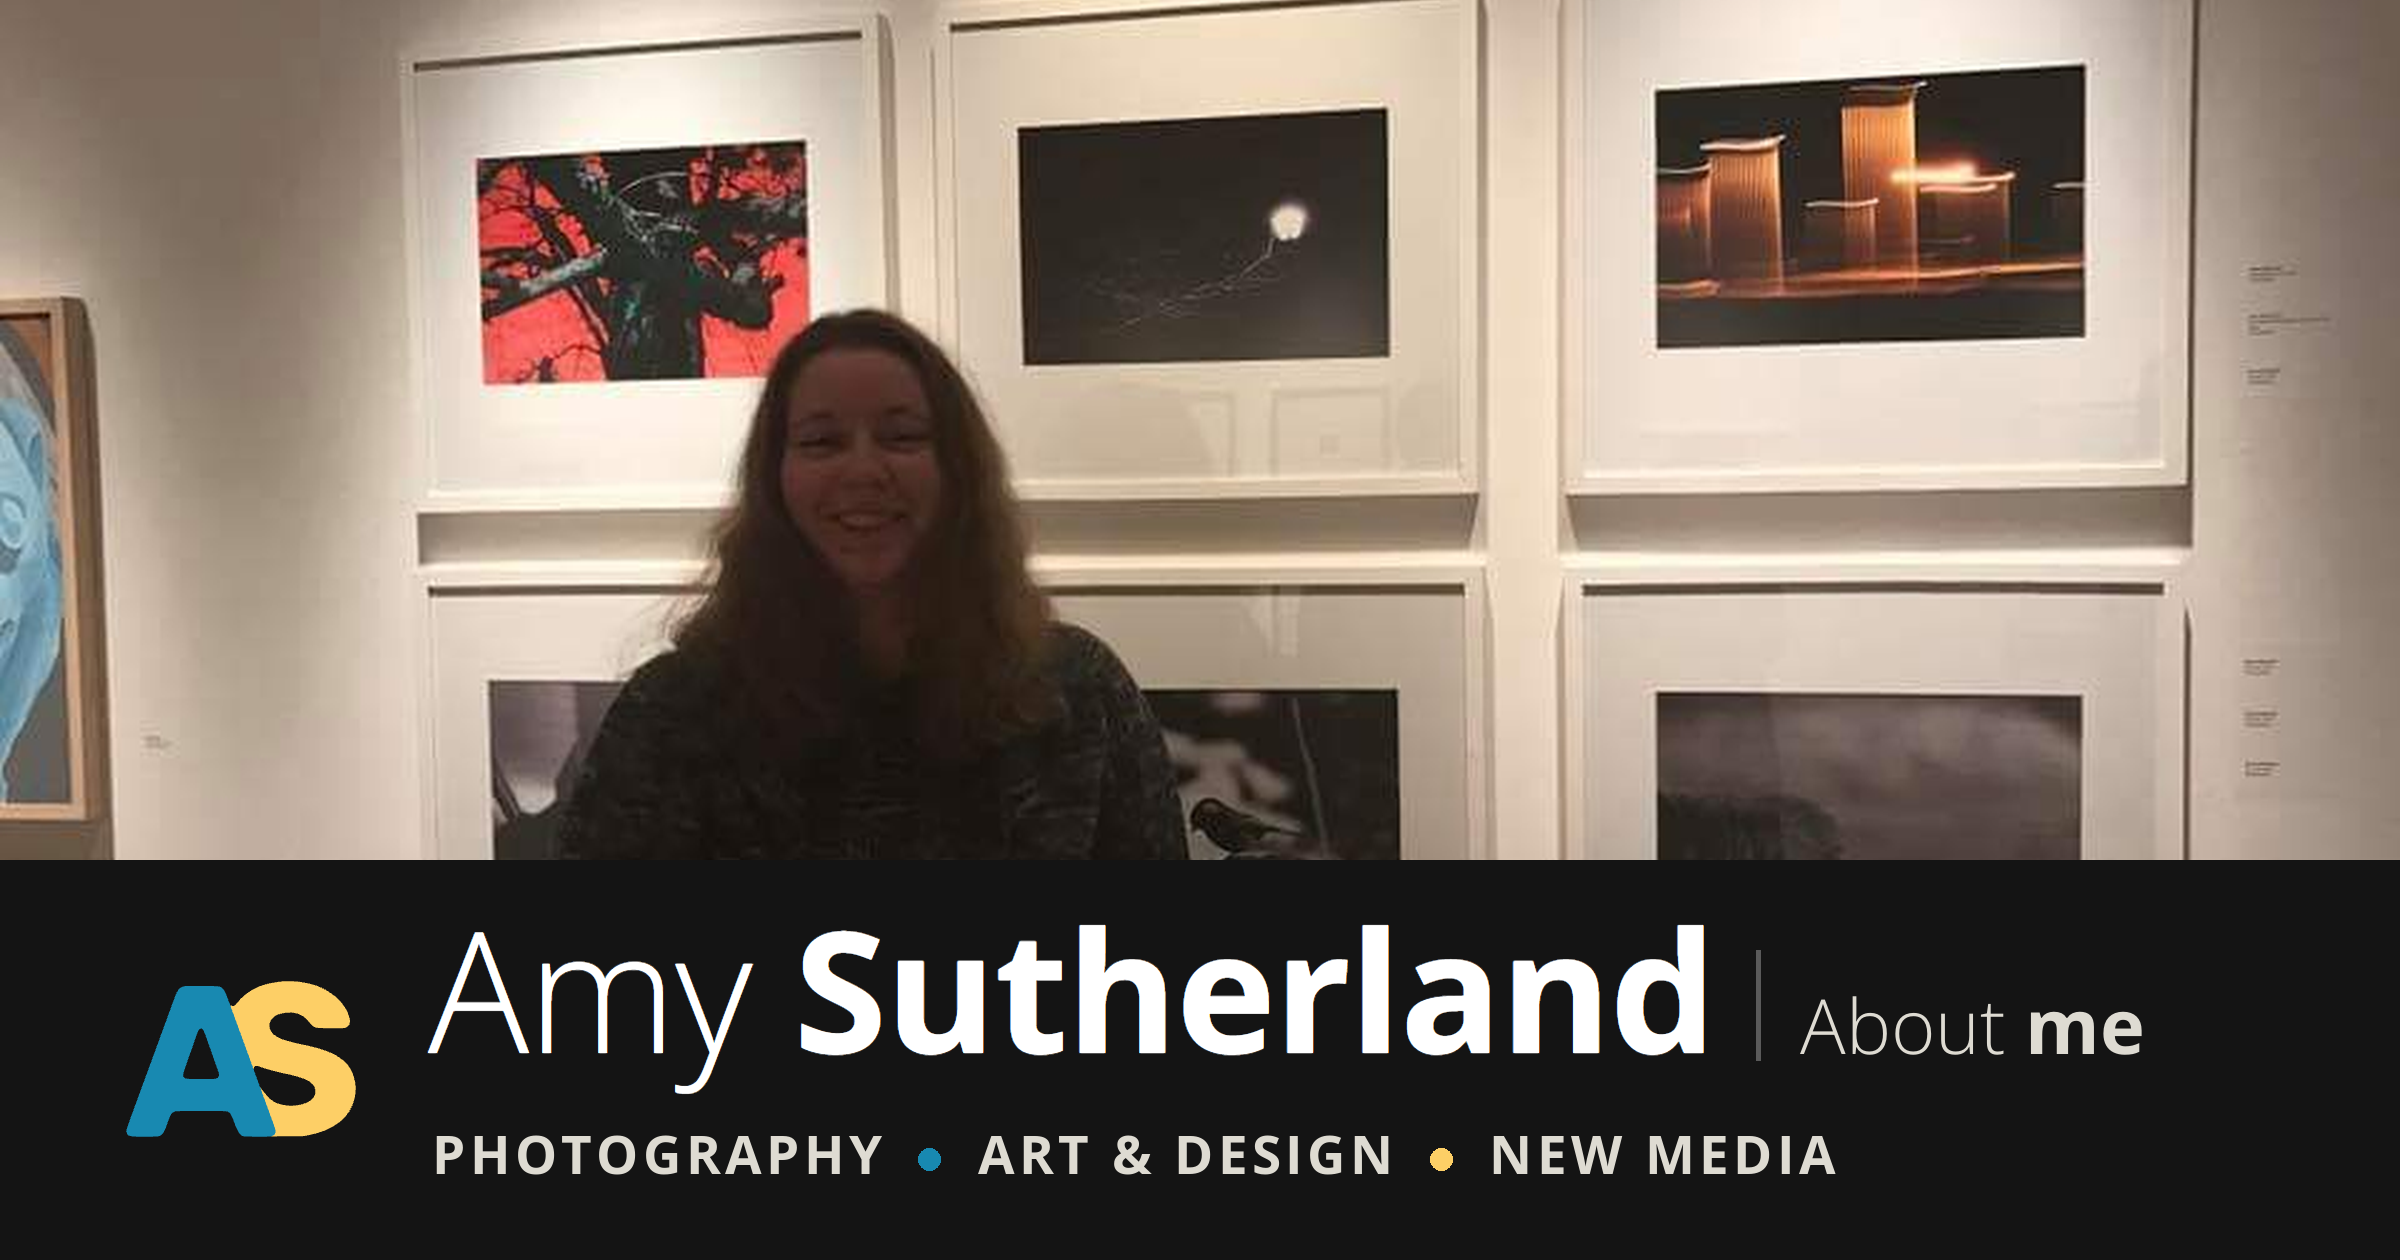
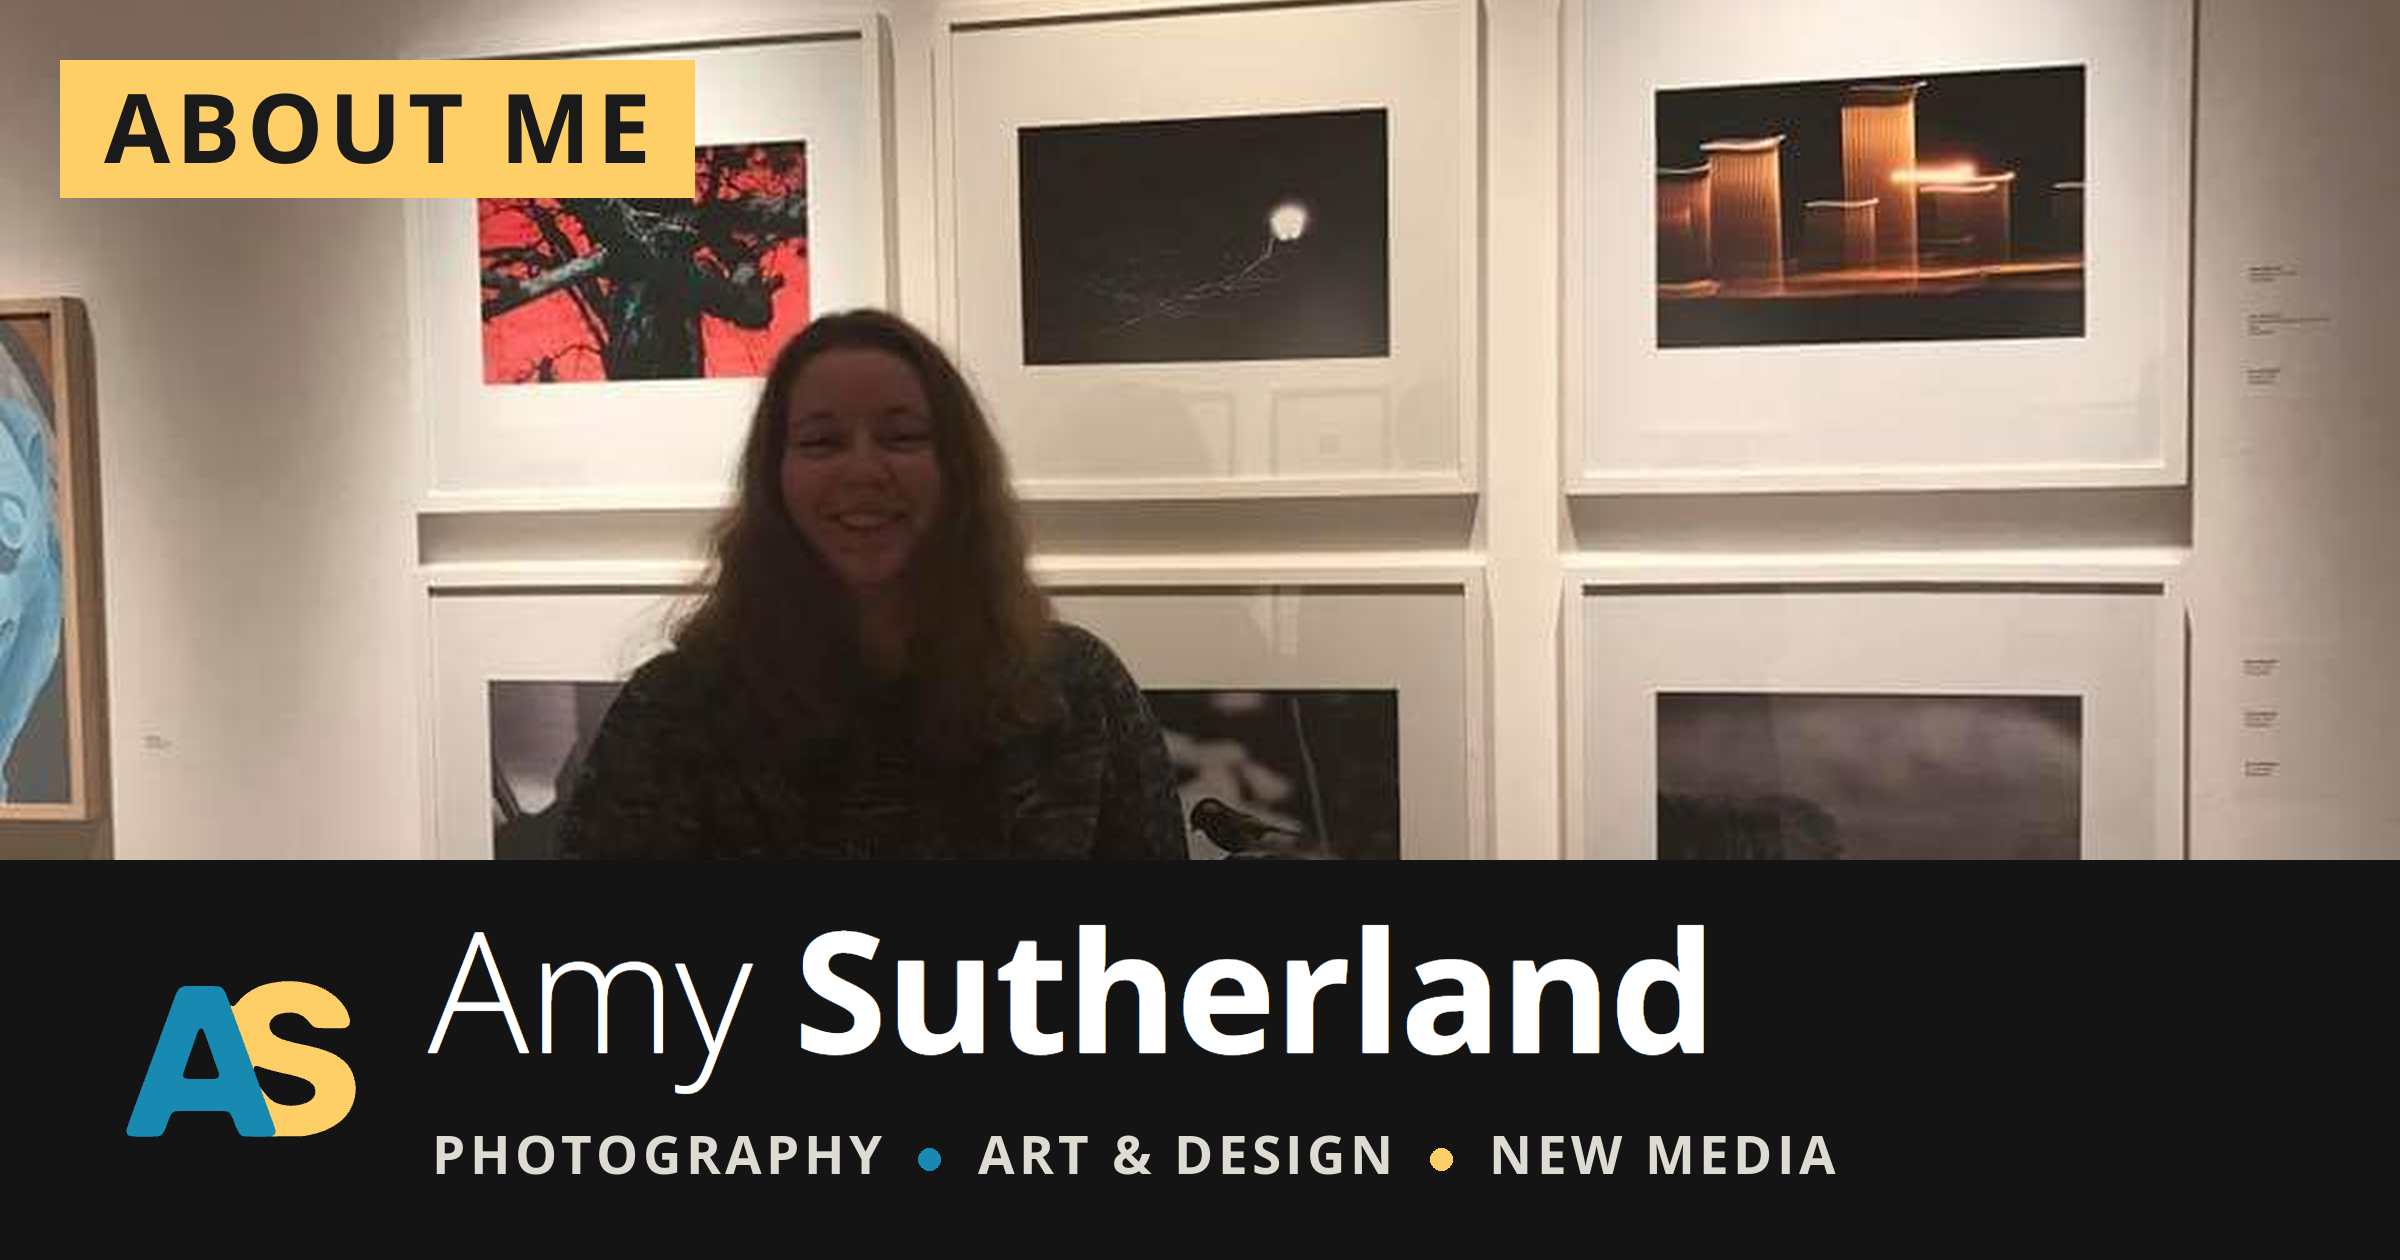
Preview cards: page name as a yellow corner tag; dark mode task numbers in yellow text
The small grey label beside the name was hard to read at phone size; a bold
yellow tag (like the site's "UX case study" tag) stays legible. The band now
matches the home card exactly.

Claude-Session: https://claude.ai/code/session_01DkZcrmevgWCgx59twn89K8

Changed region(s): [[0.0, 0.031, 0.3125, 0.1548], [0.75, 0.8048, 0.9062, 0.8357]]

diff --git a/src/css/styles.css b/src/css/styles.css
@@ -974,3 +974,8 @@ html { scroll-behavior: smooth; }
 .persona-cols h4 { color: var(--text); }
 .case-study a { color: var(--text); }
 .case-study a:hover { color: var(--text); }
+/* Dark mode: yellow numbers on the dark card read better than yellow blocks */
+@media (prefers-color-scheme: dark) {
+  :root:not([data-theme="light"]) .case-stat-group .case-num { background: none; color: var(--brand-yellow); text-align: left; padding-left: 0; }
+}
+:root[data-theme="dark"] .case-stat-group .case-num { background: none; color: var(--brand-yellow); text-align: left; padding-left: 0; }
